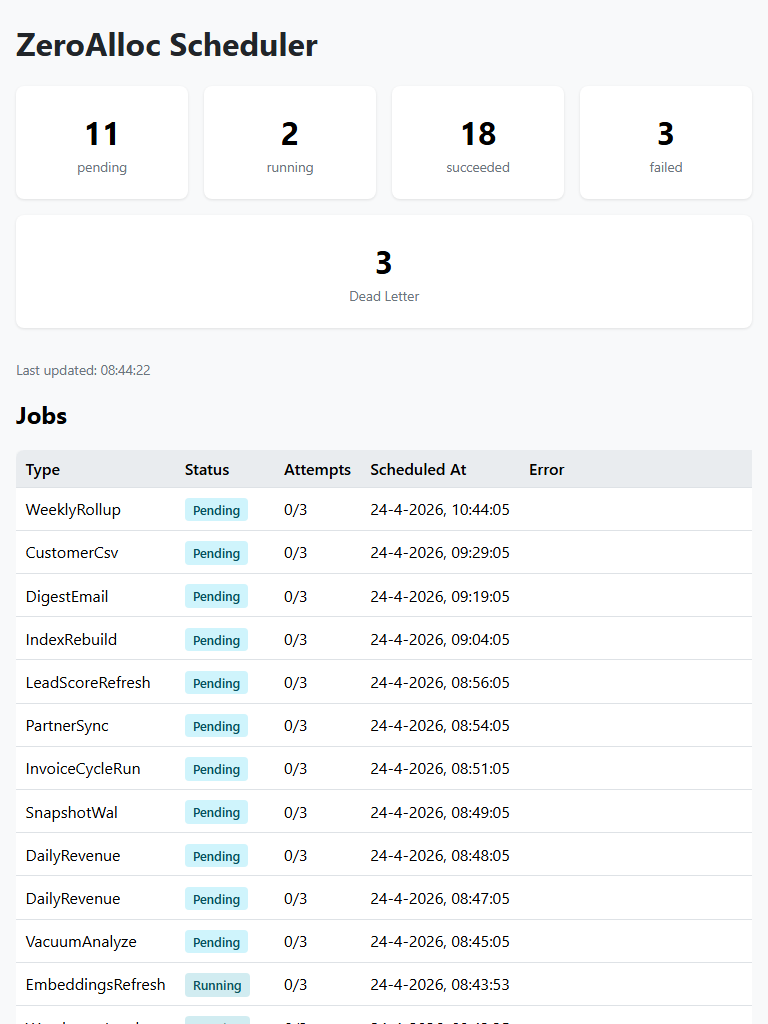
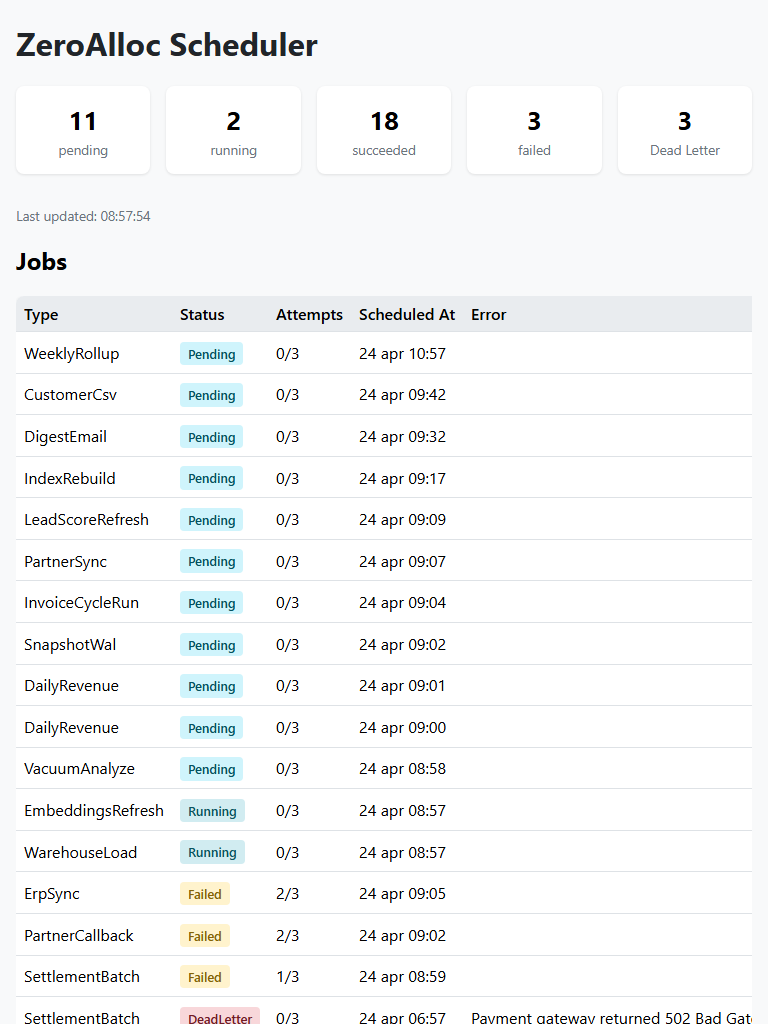
fix(dashboard): also fix desktop Delete clipping and 4+1 card reflow
Two regressions surfaced reviewing the previous commit's screenshots:

Desktop: the Jobs table overflowed the 1200px container, clipping
the Delete button in the Actions column. Root cause was the verbose
Scheduled At format — "24-4-2026, 10:44:05" is 19 chars and consumed
~440px per cell. Switch to a compact Intl.DateTimeFormat ("24 apr
10:44") — 12 chars — and keep the full ISO timestamp on the <td>
title for copy-precision reads. Drops default cell padding from
.75rem/1rem to .6rem/.7rem to claw back another ~80px total.

Tablet: the five summary cards reflowed 4+1 at 768px viewport —
lopsided and reading as an unfinished grid. Reason: default
box-sizing is content-box so padding:1.5rem added to each card's
flex-basis, pushing the sum over the container width. Add a global
box-sizing:border-box and an explicit calc(20% - 0.8rem) flex-basis
under the tablet breakpoint, with slightly smaller .count font and
1rem padding. All five cards now fit on one row at 768px.

Regenerated docs/screenshots/ from the DashboardHost seed.

diff --git a/src/ZeroAlloc.Scheduling.Dashboard/wwwroot/index.html b/src/ZeroAlloc.Scheduling.Dashboard/wwwroot/index.html
@@ -3,6 +3,7 @@
 <head>
   <meta charset="UTF-8" /><title>ZeroAlloc Scheduler</title>
   <style>
+    *,*::before,*::after{box-sizing:border-box}
     body{font-family:system-ui,sans-serif;margin:2rem;background:#f8f9fa}
     .container{max-width:1200px;margin:0 auto}
     h1{color:#212529}.cards{display:flex;gap:1rem;flex-wrap:wrap;margin-bottom:2rem}
@@ -10,7 +11,7 @@
     .card .count{font-size:2rem;font-weight:bold}.card .label{color:#6c757d;font-size:.85rem;margin-top:.25rem}
     .table-wrap{overflow-x:auto}
     table{width:100%;border-collapse:collapse;background:#fff;border-radius:8px;overflow:hidden;box-shadow:0 1px 3px rgba(0,0,0,.1)}
-    th,td{padding:.75rem 1rem;text-align:left;border-bottom:1px solid #dee2e6;white-space:nowrap}
+    th,td{padding:.6rem .7rem;text-align:left;border-bottom:1px solid #dee2e6;white-space:nowrap}
     th{background:#e9ecef;font-weight:600}tr:last-child td{border-bottom:none}
     .badge{padding:.2rem .5rem;border-radius:4px;font-size:.8rem;font-weight:600}
     .Pending{background:#cff4fc;color:#055160}.Running{background:#d1ecf1;color:#0c5460}
@@ -19,8 +20,9 @@
     button{padding:.35rem .75rem;border:none;border-radius:4px;cursor:pointer;font-size:.85rem;margin-right:.25rem}
     .btn-requeue{background:#0d6efd;color:#fff}.btn-delete{background:#dc3545;color:#fff}
     .refresh{color:#6c757d;font-size:.85rem;margin-bottom:1rem}
-    /* Tablet: reclaim horizontal space so the Error column renders without scrolling. */
-    @media(max-width:900px){body{margin:1rem}th,td{padding:.5rem .6rem}.col-id{display:none}}
+    /* Tablet: reclaim horizontal space (hide ID, tighten padding) and give each of the 5 summary
+       cards an explicit 20% flex-basis so they stay on a single row instead of reflowing to 4+1. */
+    @media(max-width:900px){body{margin:1rem}th,td{padding:.45rem .5rem}.col-id{display:none}.card{flex:1 1 calc(20% - .8rem);min-width:0;padding:1rem}.card .count{font-size:1.6rem}}
     @media(max-width:600px){.card{flex:1 1 calc(50% - .5rem);min-width:0}}
   </style>
 </head>
@@ -39,6 +41,11 @@
     const base=window.location.pathname.replace(/\/$/,'')+'/api';
     const labelMap={deadLetter:'Dead Letter'};
     function formatLabel(k){return labelMap[k]??k;}
+    // Compact "24 Apr 10:44" — drops year (irrelevant for ops) and seconds. Full ISO
+    // timestamp is still in the title tooltip for copy / precision reads.
+    const dfmt=new Intl.DateTimeFormat(undefined,{day:'2-digit',month:'short'});
+    const tfmt=new Intl.DateTimeFormat(undefined,{hour:'2-digit',minute:'2-digit'});
+    function fmtWhen(iso){const d=new Date(iso);return dfmt.format(d)+' '+tfmt.format(d);}
     async function load(){
       const[summary,...lists]=await Promise.all([
         fetch(base+'/summary').then(r=>r.json()),
@@ -57,7 +64,7 @@
           <td>${j.typeName.split('.').pop()}</td>
           <td><span class="badge ${j.status}">${j.status}</span></td>
           <td>${j.attempts}/${j.maxAttempts}</td>
-          <td>${new Date(j.scheduledAt).toLocaleString()}</td>
+          <td title="${j.scheduledAt}">${fmtWhen(j.scheduledAt)}</td>
           <td>${j.error??''}</td>
           <td>${j.status==='DeadLetter'?`<button class="btn-requeue" onclick="requeue('${j.id}')">Requeue</button>`:''}<button class="btn-delete" onclick="del('${j.id}')">Delete</button></td>
         </tr>`).join('');
